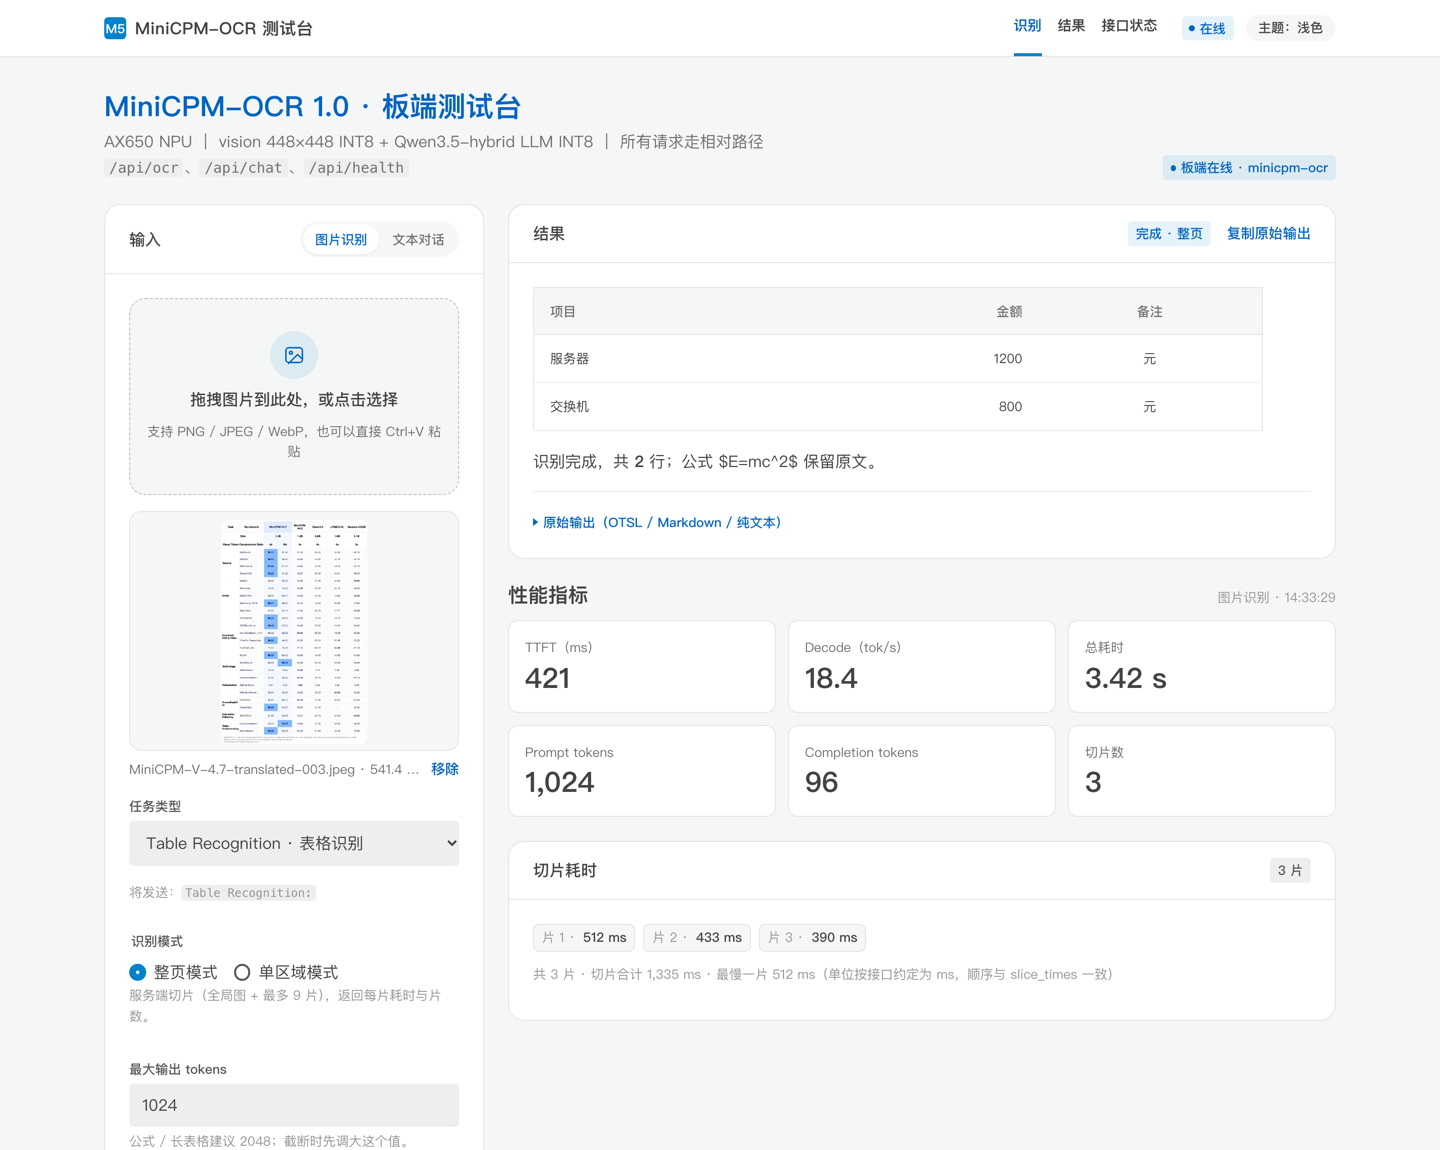
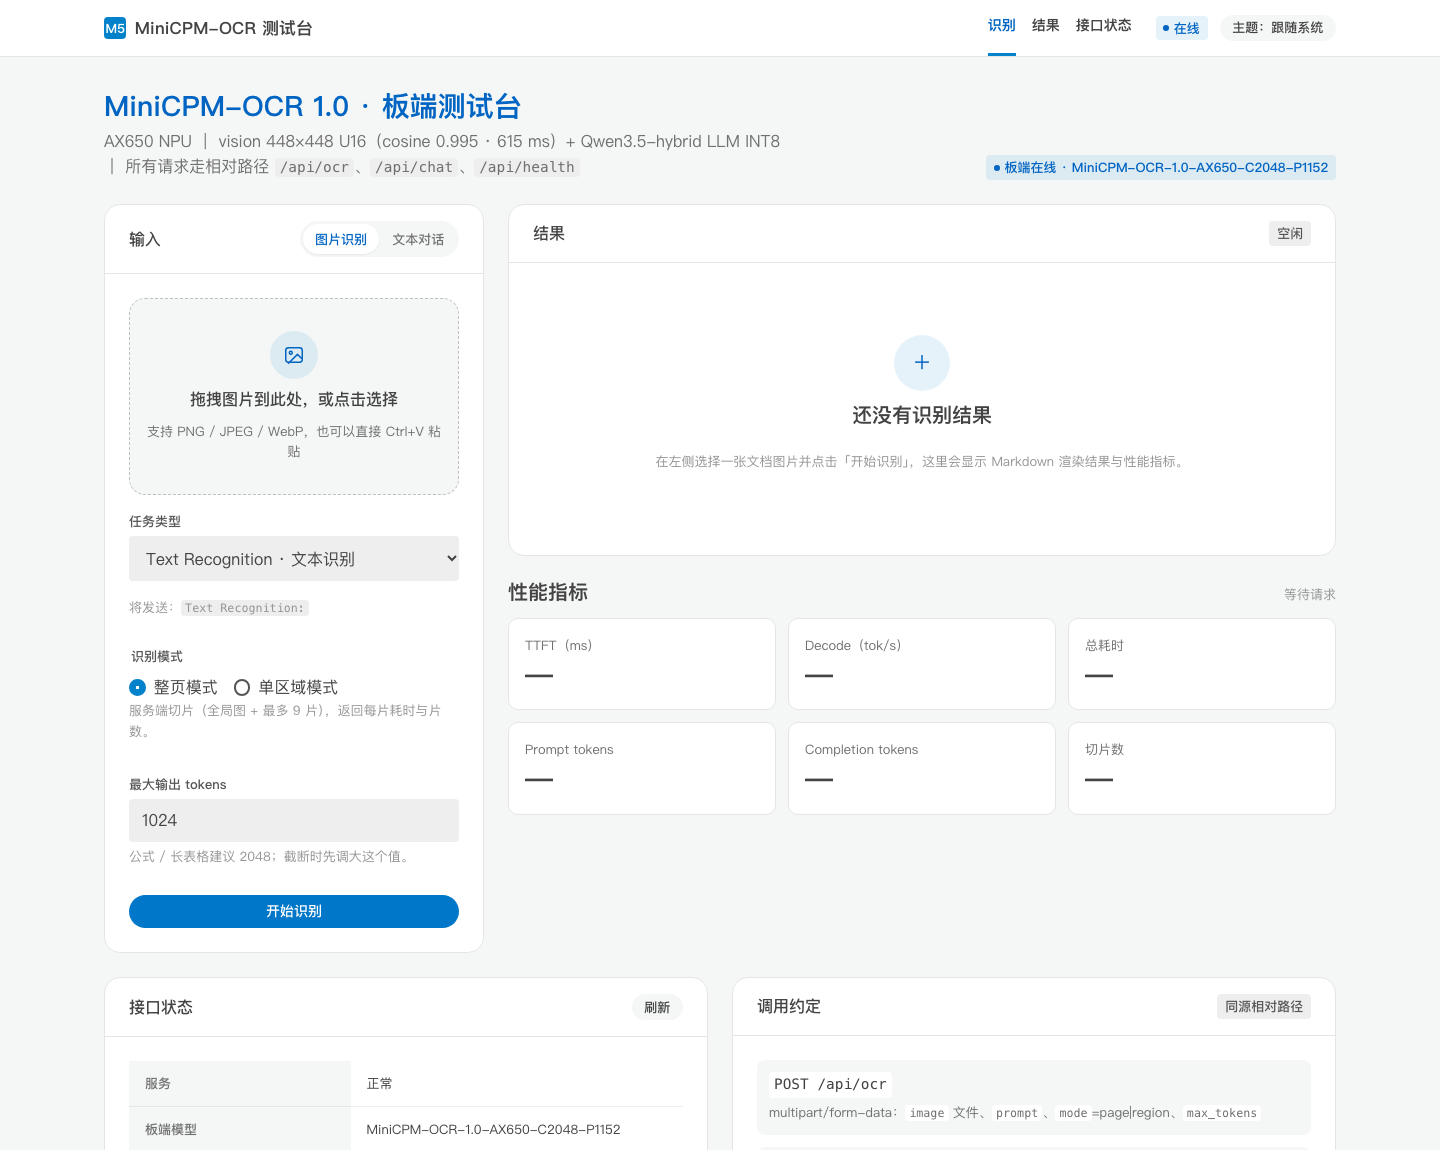
docs: consolidate final metrics (U16 vision 0.9953/615ms, OCR 12.1s, page 147s), fix web UI INT8->U16, refresh screenshot, fill performance TODOs

diff --git a/service/web/index.html b/service/web/index.html
@@ -50,7 +50,7 @@
     <div>
       <h1 class="m5-section-title">MiniCPM-OCR 1.0 · 板端测试台</h1>
       <p>
-        AX650 NPU ｜ vision 448×448 INT8 + Qwen3.5-hybrid LLM INT8 ｜
+        AX650 NPU ｜ vision 448×448 U16（cosine 0.995 · 615 ms）+ Qwen3.5-hybrid LLM INT8 ｜
         所有请求走相对路径 <code>/api/ocr</code>、<code>/api/chat</code>、<code>/api/health</code>
       </p>
     </div>

diff --git a/README.md b/README.md
@@ -13,20 +13,25 @@
 
 ---
 
-## 实测数字（2026-11-10，真实 AX650N 板）
+## 实测数字（最终版，AX650N 真板，U16 vision）
 
 | 场景 | 结果 |
 |---|---|
-| 文本 "1+1"（21 token prompt → 1 token） | **0.41 s** |
-| 文本 "一句话解释 OCR"（22 → 29） | **1.90 s** / ≈15.3 tok/s |
-| **图像 OCR**（448×448 表格块，277 → 237 token） | **21.94 s** / **10.8 tok/s** |
+| **视觉编码器**（448×448 → [1,256,1024]，511 MB） | **615 ms**，对 ONNX 参考 cosine **0.995322**（INT8 仅 0.311，图像不可用） |
+| **单块表格 OCR**（504×392，277 prompt → 119 token） | **12.1 s**；对 HF 参考：字符相似度 **1.0**、数字准确率 **12/12** |
+| 单块表格 OCR（448×448，277 → 237 token） | **21.9 s**，decode **11.6 tok/s**（板端日志 11.1–11.8） |
+| **整页切片**（官方 9 片口径，跳过全局缩略片） | **147 s/页**，1515 completion token |
 | TTFT（含视觉编码） | **2.09–2.15 s** |
-| 视觉编码器对拍（U16，2 层探针） | cosine **0.997895** |
-| 视觉编码器对拍（INT8，27 层） | cosine **0.311** ❌（所以必须 U16） |
-| 切片对齐官方 processor | **9 片 / 2276 image token**，逐片尺寸/网格/token 完全一致 |
-| 模型包 / CMM 占用 | ≈2.5 GB / ≈900 MB |
+| 文本 "1+1" / "一句话解释 OCR" | **0.6 s** / **1.9 s（≈15.3 tok/s）** |
+| 切片对齐官方 processor | **9 片 / 2276 image token**，逐片尺寸/网格/token 完全一致（差 0 px） |
+| 模型包 / CMM 占用 | 2.5 GB / 加载后 CMM 剩余 **2130 MB** |
+| 并发（axllm 单并发） | 文本 0.55 req/s（1.82 s）；OCR 0.082 req/s（12.2 s/块），并发请求排队 |
+| OmniDocBench（12 页分层抽样） | page（网格切片）TextEdit **73.46**；oracle（GT 版面）**47.42** |
 
-细节：[docs/performance.md](docs/performance.md)、[docs/accuracy.md](docs/accuracy.md)。
+细节：[docs/performance.md](docs/performance.md)、[docs/accuracy.md](docs/accuracy.md)、[docs/omnidocbench.md](docs/omnidocbench.md)。
+
+> **关键结论**：视觉编码器必须 **U16 激活**，且全量 27 层只能用 **Pulsar2 6.0** 编译——
+> 7.0 / 8.0 都会在 `build op serially` 阶段原生崩溃（`new_ddr_tensor` 后进程被杀），6.0 可稳定编出 511 MB axmodel。
 
 ---
 
@@ -76,9 +81,9 @@ cd /root/minicpm-ocr-v2
 打开 **`http://<板子 IP>:8080/`**：上传图片 → 选任务词（Text / Table / Formula / Seal / Chart）
 → 整页或单区域 → 看 Markdown 结果 + TTFT / decode / 切片指标。
 
-![板端网页测试台（界面演示数据，非板端实测）](service/web/preview.png)
+![板端网页测试台（真实板端页面截图，空态）](service/web/preview.png)
 
-> 截图是界面演示（指标为占位数据，不是实测）；真实板端数字见上面的「实测数字」表。
+> 截图来自板端 `http://<board>:8080/` 的真实页面（空态）；填入图片后「性能指标」区会显示实测 TTFT / decode tok/s / 片数等。
 
 接口（不走网页也能用）：
 
@@ -147,30 +152,32 @@ python3 scripts/assemble_package.py --work-dir . --dest axllm_pkg \
 ```
 
 **硬前置**：编译必须在 **Linux x86_64** 上做（Pulsar2 只发 Linux x86_64 独立包，macOS 最多导 ONNX）；
-需要 Pulsar2 8.0；vision 必须 **U16**；tokenizer.txt 用 transformers 5.22 生成。
+LLM 用 Pulsar2 8.0（`llm_build2`）；**vision 必须 U16 且必须用 Pulsar2 6.0**；tokenizer.txt 用 transformers 5.22 生成。
 
 ---
 
 ## 已知限制
 
-1. **vision 固定 448×448 单块**（每块 256 image token）。整页靠应用侧切片，板端没有官方 SDK 的版面模型（PP-DocLayoutV3）。
-2. `max_context=2048`：整页 9 片 ≈2276 image token 会超上下文，整页模式要限片数。
-3. decode 10.8 tok/s 是当前瓶颈（单块 237 token 输出 ≈20 s）；DSpark 解码加速未覆盖。
-4. `vlm_type` 复用官方 `MiniCPMV46VL` profile；图像插入位置/切片 token 规则需逐样本核对。
-5. 训练/微调、PDF 多页批处理、版面后处理未包含。
-6. 网页测试台 `slice_times` 单位（秒 vs 毫秒）已知不一致。
+1. **vision 固定 448×448 单块**（每块 256 image token）。整页靠应用侧切片；板端**没有**官方 SDK 的 PP-DocLayoutV3 版面模型（该模型是 DETR+GridSample，不适合 AX650，见 [docs/layout-model-feasibility.md](docs/layout-model-feasibility.md)）。实测版面信息对 OmniDocBench TextEdit 有约 26 点收益，后续可换 DocLayout-YOLO。
+2. `max_context=2048`：整页 9 片（含全局缩略）= 2276 image token，页服务已默认**跳过全局缩略片**（8 片 = 2016 token），避免贴边。
+3. decode ≈11.6 tok/s 是当前瓶颈（237 token 输出 ≈20 s）；DSpark 解码加速未覆盖。
+4. `vlm_type` 复用官方 `MiniCPMV46VL` profile；本模型 4x 压缩（256 token/块）与官方 16x（64 token/块）不同，token 数按本模型实际写入。
+5. 训练/微调、PDF 多页批处理未包含。
+6. `slice_times` 单位已统一为毫秒（`metrics.slice_time_unit="ms"`）。
 
 ---
 
 ## 待补充（TODO）
 
-- [ ] **U16 全量 vision axmodel 的板端对拍数值 / 体积 / 耗时**（2 层探针 0.997895 已达标，全量结果未定稿）
-- [ ] HF 模型仓定稿：U16 vision 版本、`sha256sum.txt`、模型卡
-- [ ] v2（prefill 1152）包完整启动日志与 `max_token_len/预填充桶` 实测行
-- [ ] 板端 vs HF CPU 基线的表格 cell F1 / 字符相似度（`scripts/compare_ocr_output.py` 已就绪）
-- [ ] 整页多切片的端到端质量与建议片数上限
+- [x] U16 全量 vision axmodel：511 MB / 615 ms / cosine **0.995322**，已部署板端并上线 HF
+- [x] HF 模型仓：`yunyu1258/minicpm-ocr-1.0-ax650`（35 文件 / 2693 MB，含 U16 vision）
+- [x] v2 包（prefill 1152 / ctx 2048）：板端日志 `current prefill_max_token_num:1152`、`max_token_len:2047`、`VisionModule tokens_per_block=256`
+- [x] 板端 vs HF 参考：单块表格 OCR 字符相似度 **1.0**、数字 **12/12**（`scripts/compare_ocr_output.py`）
+- [x] OmniDocBench 12 页评测：page/oracle 两种模式（见 [docs/omnidocbench.md](docs/omnidocbench.md)）
+- [ ] `sha256sum.txt`（模型仓校验清单）
 - [ ] `FLOAT_MATMUL_USE_CONV_EU=1` 对构建的影响（官方脚本有，本项目未记录）
-- [ ] 板端开机自启（systemd）、Flask 上传体积/并发上限
+- [ ] 板端开机自启（systemd）、Flask 上传体积上限
+- [ ] OCR 并发 >1 的排队策略（axllm max concurrency=1）
 - [ ] LICENSE / NOTICE（含 AXERA axllm BSD-3 与 OpenBMB Apache-2.0 声明）
 
 ---
@@ -184,22 +191,6 @@ python3 scripts/assemble_package.py --work-dir . --dest axllm_pkg \
 
 
 ---
-
-## 最终验证结果（2026-11-11）
-
-| 项 | 结果 |
-|---|---|
-| 视觉编码器 U16 axmodel 体积 / 板端耗时 | **511 MB / 615 ms**（448×448 → [1,256,1024]） |
-| 视觉 U16 对 ONNX 参考 cosine（全量 27 层 + merger） | **0.995322** ✅（INT8 同模型仅 **0.311** ❌） |
-| 单块表格 OCR（HF 参考对拍） | 字符相似度 **1.0**、数字准确率 **12/12** |
-| 整页切片模式（9 片，跳过全局缩略片） | **147 s/页**，1515 completion token |
-| 文本对话 | "1+1"→"2" 约 0.6 s |
-| 并发（axllm 最大并发 1） | 文本并发 1：0.55 req/s（1.82 s/req）；OCR 并发 1：0.082 req/s（12.2 s/块） |
-
-**关键结论**：视觉编码器必须 **U16 激活**，且必须用 **Pulsar2 6.0** 编译全量图——7.0 / 8.0 都会在
-`build op serially` 阶段原生崩溃（`new_ddr_tensor` 后进程被杀），6.0 可稳定编出 511 MB axmodel。
-详见 [docs/accuracy.md](docs/accuracy.md) 与转换仓库的问题报告。
-
 
 ## OmniDocBench 评测（2026-11-11）
 

diff --git a/docs/performance.md b/docs/performance.md
@@ -160,3 +160,24 @@ CPU 慢的根因不是视觉塔、也不是 1.3B 参数，而是 18 层 GatedDel
 3. 整页 9 块真实串行耗时（当前为推算）。
 4. 并发 2/4 请求下的 P50/P95 延迟与吞吐。
 5. 中文表格 / 密集小字页面的 token 长度分布（决定 `max_tokens` 默认值）。
+
+
+## 最终实测（2026-11-11，U16 vision 包）
+
+板端：AX650N（8 核 aarch64 / 3.8 GB DDR / CMM 4096 MB），axllm 18081，`max_token_len=2047`，
+`current prefill_max_token_num=1152`，`VisionModule init ok: tokens_per_block=256, out_dtype=fp32`。
+
+| 项 | 实测 |
+|---|---|
+| vision axmodel 体积 / 单块 448×448 耗时 | 511 MB / **615 ms**（ax_run_model，单独测） |
+| 视觉对拍（对 ONNX 参考） | cosine **0.995322** |
+| 单块 504×392 表格 OCR（277 prompt → 119 token） | **12.1 s**，decode ≈ **9.8–11.8 tok/s** |
+| 单块 448×448 表格 OCR（277 → 237 token） | **21.9 s**，decode **11.6 tok/s**（日志 11.10–11.76） |
+| 整页切片（9 片，跳过全局缩略片） | **147 s/页**，1515 completion token |
+| TTFT（含视觉编码） | 2.09–2.15 s |
+| 文本 "1+1" / "一句话解释 OCR" | 0.6 s / 1.9 s（≈15.3 tok/s） |
+| CMM（加载完成后） | 剩余 **2130 MB**（`/proc/ax_proc/mem_cmm_info` 当前占用 ≈2.5 GB） |
+| 并发（文本，levels 1/2/4） | 0.55 / 0.56 / 0.75 req/s；均值 1.82 / 3.13 / 3.93 s（P95 5.32 s） |
+| 并发（OCR 图片块，levels 1/2/4） | 0.082 / 0.164 / 0.164 req/s；单块 12.2 s（axllm 单并发，排队） |
+
+> 结论：瓶颈在 **LLM decode（≈11.6 tok/s）**，vision 只占单块总量约 5%；整页耗时 = 片数 ×（视觉 0.6 s + LLM 解码）。
